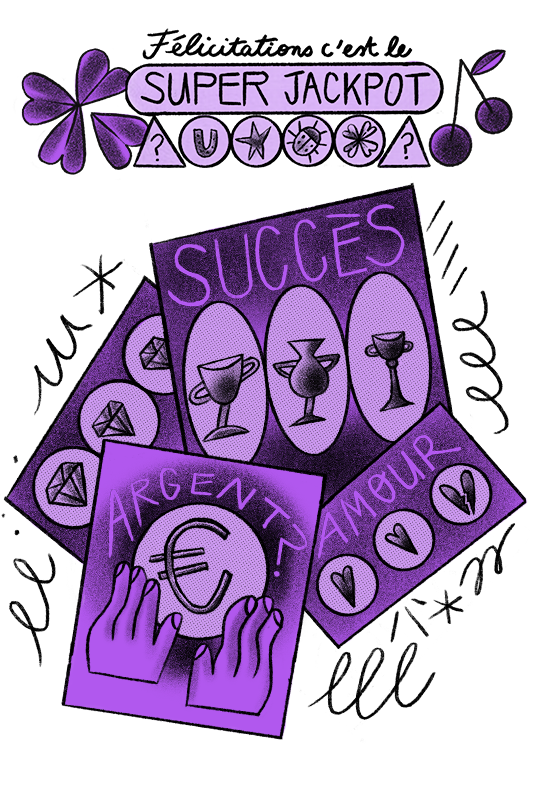
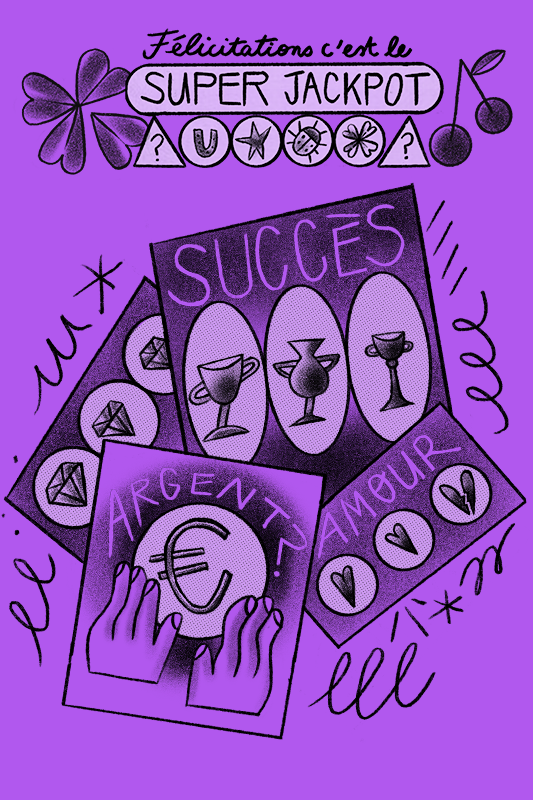
ok2

diff --git a/index.html b/index.html
@@ -31,7 +31,7 @@
 
 
       body {
-        background: #FFF;
+        background: #b05eec;
         color: #000;
         margin: 5px;
         padding: 0px;
@@ -112,13 +112,13 @@
     }
 
     .btn-1:hover {
-        background: #a465e4 ; /* Bleu plus foncé au survol */
+        
         transform: scale(1.05); /* Effet d'agrandissement */
     }
 
 
     .btn-3 {
-        background: #a465e4 ; /* Bleu par défaut a465e4 000000*/
+        background: rgb(237, 237, 237) ; /* Bleu par défaut a465e4 000000*/
         color: white;
         border: none;
         border-radius: 5px;
@@ -128,7 +128,7 @@
     }
 
     .btn-3:hover {
-        background: #a465e4; /* Bleu plus foncé au survol */
+
         transform: scale(1.05); /* Effet d'agrandissement */
     }
       
@@ -190,10 +190,13 @@
 
       <div class="frame">
         <br>
-        <button onclick="window.location.href = 'https://evabarenton.com/';" class="custom-btn btn-1">evabarenton.com</button>
+      
             <button onclick="window.location.href = 'https://evabarenton.com/';" class="custom-btn btn-3",class="blinking" ><a href = "mailto: evabarenton@gmail.com">Cliquez ici pour réclamer votre gain</button>
-          
+
+              <button onclick="window.location.href = 'https://evabarenton.com/';" class="custom-btn btn-1">evabarenton.com</button>    
             </div>
+
+            <br>
             
     <span class="container">
       <img id="robot" src="img/DOWN.png" />
